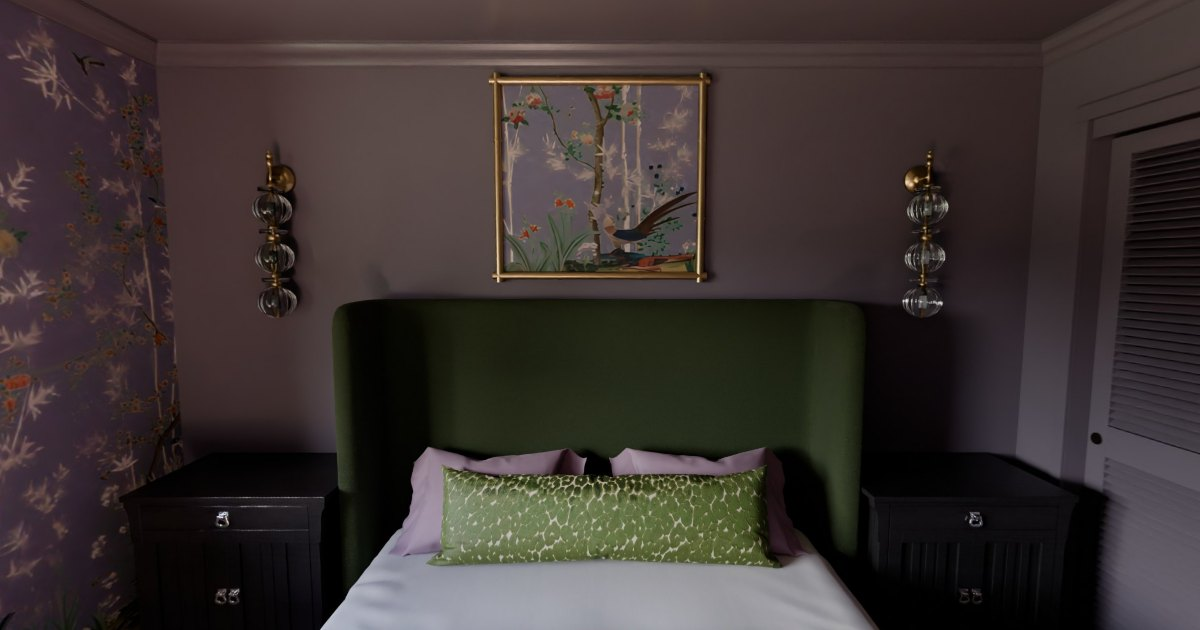
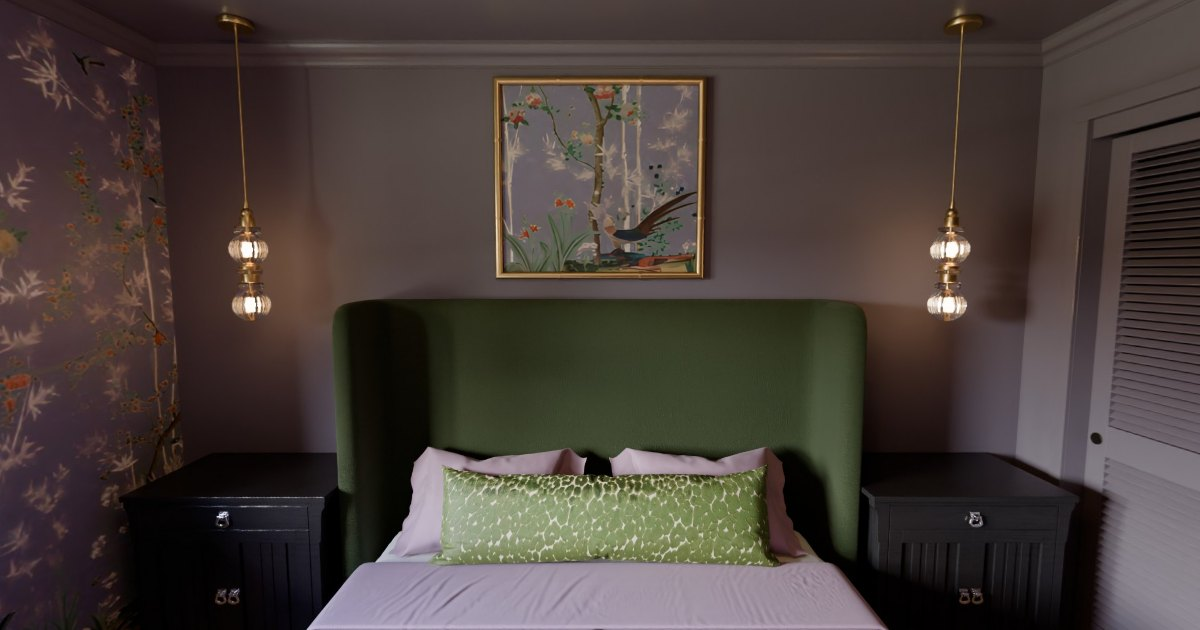
Bedroom tour: day and night 360s, new photo gallery
- New 6000x3000 day and night panoramas (pendants, new bed, floor and styling)
- Lighting switch (Day / Night); the gallery shows the matching set
- Gallery replaced with the 9-camera day and night renders (depth of field)
- Camera icons on each photo's subject in the 360; refreshed link preview

Claude-Session: https://claude.ai/code/session_01Gd4aLpzejxWqH616XGX1w3

diff --git a/christina-jones-bedroom/tour.js b/christina-jones-bedroom/tour.js
@@ -1,1 +1,1 @@
-window.TOUR = {"project": "Christina Jones \u00b7 Bedroom", "default_node": "bedroom", "default_floor": "carpet", "default_doors": "closed", "floors": {"carpet": "Wall-to-wall carpet"}, "doors": {"closed": "Closed"}, "client": {"name": "Maureen Stevens Design", "url": "https://www.maureenstevens.com/"}, "times": ["day"], "nodes": [{"id": "bedroom", "label": "The Bedroom", "view": {"yaw": 0, "pitch": -6, "hfov": 104}, "views": [{"id": "bed", "label": "Bed", "short": "Bed", "yaw": 0, "pitch": -8, "hfov": 100}, {"id": "window", "label": "Window seat", "short": "Window", "yaw": -87, "pitch": -6, "hfov": 96}, {"id": "closet", "label": "Closet & door", "short": "Closet", "yaw": 82, "pitch": -6, "hfov": 100}, {"id": "dresser", "label": "Dresser", "short": "Dresser", "yaw": 180, "pitch": -24, "hfov": 105}], "links": [], "appliances": [], "panos": {"floor-carpet__doors-closed": {"full": "pano_bedroom_day.jpg", "mobile": "pano_bedroom_day_m.jpg"}}, "photos": [{"still": "Still_01_BedWall", "label": "The Bedroom", "yaw": 0, "pitch": -36}, {"still": "Still_03_WindowSeat", "label": "Window Seat", "yaw": -88, "pitch": -19}, {"still": "Still_04_ClosetDoor", "label": "Closet & Door", "yaw": 58, "pitch": -2}, {"still": "Still_02_DresserWall", "label": "Dresser Wall", "yaw": 180, "pitch": -20}]}], "stills": [{"id": "Still_01_BedWall", "caption": "The Bedroom", "src": "still_Still_01_BedWall.jpg", "thumb": "thumb_Still_01_BedWall.jpg", "w": 1920, "h": 1280}, {"id": "Still_02_DresserWall", "caption": "Dresser Wall", "src": "still_Still_02_DresserWall.jpg", "thumb": "thumb_Still_02_DresserWall.jpg", "w": 1920, "h": 1280}, {"id": "Still_03_WindowSeat", "caption": "Window Seat", "src": "still_Still_03_WindowSeat.jpg", "thumb": "thumb_Still_03_WindowSeat.jpg", "w": 1920, "h": 1280}, {"id": "Still_04_ClosetDoor", "caption": "Closet & Door", "src": "still_Still_04_ClosetDoor.jpg", "thumb": "thumb_Still_04_ClosetDoor.jpg", "w": 1920, "h": 1280}]};
+window.TOUR = {"project": "Christina Jones \u00b7 Bedroom", "default_node": "bedroom", "default_floor": "main", "default_doors": "closed", "floors": {"main": "Hardwood with rug"}, "doors": {"closed": "Closed"}, "client": {"name": "Maureen Stevens Design", "url": "https://www.maureenstevens.com/"}, "times": ["day", "night"], "nodes": [{"id": "bedroom", "label": "The Bedroom", "view": {"yaw": 0, "pitch": -6, "hfov": 104}, "views": [{"id": "bed", "label": "Bed", "short": "Bed", "yaw": 0, "pitch": -8, "hfov": 100}, {"id": "window", "label": "Window seat", "short": "Window", "yaw": -87, "pitch": -6, "hfov": 96}, {"id": "closet", "label": "Closet & door", "short": "Closet", "yaw": 82, "pitch": -6, "hfov": 100}, {"id": "dresser", "label": "Dresser", "short": "Dresser", "yaw": 180, "pitch": -24, "hfov": 105}], "links": [], "appliances": [], "panos": {"floor-main__doors-closed": {"full": "pano_day.jpg", "mobile": "pano_day_m.jpg", "night": {"full": "pano_night.jpg", "mobile": "pano_night_m.jpg"}}}, "photos": [{"still": "CAM_01_BedWall", "yaw": 0, "pitch": -38, "label": "The Bedroom"}, {"still": "CAM_02_DresserWall", "yaw": -172, "pitch": 6, "label": "Dresser Wall"}, {"still": "CAM_03_WindowNook", "yaw": -92.6, "pitch": -20, "label": "Window Nook"}, {"still": "CAM_04_DoorCloset", "yaw": 60, "pitch": -2, "label": "Closet & Door"}, {"still": "Cam_05", "yaw": 33.7, "pitch": -10, "label": "Bedside Pendant"}, {"still": "Cam_06", "yaw": -78, "pitch": 0, "label": "Window Seat"}, {"still": "Cam_07", "yaw": -108.5, "pitch": -9, "label": "Window Seat Pillows"}, {"still": "Cam_08", "yaw": 171, "pitch": -21, "label": "Dresser Styling"}, {"still": "Cam_09", "yaw": 151.7, "pitch": -5, "label": "Thermostat"}]}], "stills": [{"id": "day_CAM_01_BedWall", "time": "day", "caption": "The Bedroom", "src": "still_day_CAM_01_BedWall.jpg", "thumb": "thumb_day_CAM_01_BedWall.jpg", "w": 1920, "h": 1280}, {"id": "day_CAM_02_DresserWall", "time": "day", "caption": "Dresser Wall", "src": "still_day_CAM_02_DresserWall.jpg", "thumb": "thumb_day_CAM_02_DresserWall.jpg", "w": 1920, "h": 1280}, {"id": "day_CAM_03_WindowNook", "time": "day", "caption": "Window Nook", "src": "still_day_CAM_03_WindowNook.jpg", "thumb": "thumb_day_CAM_03_WindowNook.jpg", "w": 1920, "h": 1280}, {"id": "day_CAM_04_DoorCloset", "time": "day", "caption": "Closet & Door", "src": "still_day_CAM_04_DoorCloset.jpg", "thumb": "thumb_day_CAM_04_DoorCloset.jpg", "w": 1920, "h": 1280}, {"id": "day_Cam_05", "time": "day", "caption": "Bedside Pendant", "src": "still_day_Cam_05.jpg", "thumb": "thumb_day_Cam_05.jpg", "w": 1920, "h": 1280}, {"id": "day_Cam_06", "time": "day", "caption": "Window Seat", "src": "still_day_Cam_06.jpg", "thumb": "thumb_day_Cam_06.jpg", "w": 1920, "h": 1280}, {"id": "day_Cam_07", "time": "day", "caption": "Window Seat Pillows", "src": "still_day_Cam_07.jpg", "thumb": "thumb_day_Cam_07.jpg", "w": 1920, "h": 1280}, {"id": "day_Cam_08", "time": "day", "caption": "Dresser Styling", "src": "still_day_Cam_08.jpg", "thumb": "thumb_day_Cam_08.jpg", "w": 1920, "h": 1280}, {"id": "day_Cam_09", "time": "day", "caption": "Thermostat", "src": "still_day_Cam_09.jpg", "thumb": "thumb_day_Cam_09.jpg", "w": 1920, "h": 1280}, {"id": "night_CAM_01_BedWall", "time": "night", "caption": "The Bedroom", "src": "still_night_CAM_01_BedWall.jpg", "thumb": "thumb_night_CAM_01_BedWall.jpg", "w": 1920, "h": 1280}, {"id": "night_CAM_02_DresserWall", "time": "night", "caption": "Dresser Wall", "src": "still_night_CAM_02_DresserWall.jpg", "thumb": "thumb_night_CAM_02_DresserWall.jpg", "w": 1920, "h": 1280}, {"id": "night_CAM_03_WindowNook", "time": "night", "caption": "Window Nook", "src": "still_night_CAM_03_WindowNook.jpg", "thumb": "thumb_night_CAM_03_WindowNook.jpg", "w": 1920, "h": 1280}, {"id": "night_CAM_04_DoorCloset", "time": "night", "caption": "Closet & Door", "src": "still_night_CAM_04_DoorCloset.jpg", "thumb": "thumb_night_CAM_04_DoorCloset.jpg", "w": 1920, "h": 1280}, {"id": "night_Cam_05", "time": "night", "caption": "Bedside Pendant", "src": "still_night_Cam_05.jpg", "thumb": "thumb_night_Cam_05.jpg", "w": 1920, "h": 1280}, {"id": "night_Cam_06", "time": "night", "caption": "Window Seat", "src": "still_night_Cam_06.jpg", "thumb": "thumb_night_Cam_06.jpg", "w": 1920, "h": 1280}, {"id": "night_Cam_07", "time": "night", "caption": "Window Seat Pillows", "src": "still_night_Cam_07.jpg", "thumb": "thumb_night_Cam_07.jpg", "w": 1920, "h": 1280}, {"id": "night_Cam_08", "time": "night", "caption": "Dresser Styling", "src": "still_night_Cam_08.jpg", "thumb": "thumb_night_Cam_08.jpg", "w": 1920, "h": 1280}, {"id": "night_Cam_09", "time": "night", "caption": "Thermostat", "src": "still_night_Cam_09.jpg", "thumb": "thumb_night_Cam_09.jpg", "w": 1920, "h": 1280}]};

diff --git a/christina-jones-bedroom/index.html b/christina-jones-bedroom/index.html
@@ -7,7 +7,7 @@
 <meta name="description" content="Interactive 360° bedroom presentation - Christina Jones · Maureen Stevens Design">
 <meta property="og:type" content="website">
 <meta property="og:title" content="Christina Jones · Bedroom 360°">
-<meta property="og:description" content="Look around the bedroom in 360° and browse the photographs.">
+<meta property="og:description" content="Look around the bedroom in 360°, day and night, and browse the photographs.">
 <meta property="og:image" content="https://ms3dstudio.github.io/3d-previews/christina-jones-bedroom/og.jpg">
 <meta property="og:image:width" content="1200">
 <meta property="og:image:height" content="630">
@@ -172,7 +172,7 @@
 </section>
 
 <div class="title ui"><h2>Christina Jones</h2><p>Bedroom · 360° tour</p></div>
-<div class="hint ui" id="hint">Drag to look around · camera icons show photos · use View below to face each wall</div>
+<div class="hint ui" id="hint">Drag to look around · camera icons show photos · use View below to face each wall · switch Day / Night below</div>
 <div class="loc-name" id="locname"></div>
 
 <div class="topbtns ui">
@@ -208,7 +208,7 @@
 </section>
 
 <script src="https://cdnjs.cloudflare.com/ajax/libs/pannellum/2.5.6/pannellum.js"></script>
-<script src="tour.js"></script>
+<script src="tour.js?v=2"></script>
 <script>
 (async function(){
   const $ = id => document.getElementById(id);
@@ -232,8 +232,9 @@
   const S = {node:T.default_node, floor:T.default_floor, doors:T.default_doors, time:'day', view:null};
   const TIMES = T.times || ['day'];
   const nodeById = Object.fromEntries(T.nodes.map(n=>[n.id,n]));
-  const stills = T.stills || [];
-  const stillIdx = Object.fromEntries(stills.map((s,i)=>[s.id,i]));
+  // the gallery shows the photos that match the current lighting (day / night)
+  const allStills = T.stills || [];
+  const stillsFor = t => { const l = allStills.filter(s => (s.time||'day') === t); return l.length ? l : allStills; };
   const sid = (n,f,d,t)=>`${n}|${f}|${d}|${t}`;
   const url = (n,f,d,t)=>{let p=nodeById[n].panos[`floor-${f}__doors-${d}`]; if(p && t==='night') p=p.night; return p ? (useMobile ? p.mobile : p.full) : null;};
 
@@ -250,9 +251,14 @@
     for (const a of n.appliances) hs.push({pitch:a.pitch, yaw:a.yaw, type:'custom', createTooltipFunc:tip,
         createTooltipArgs:{cls:'hs-app', label:(d==='closed'?'Open ':'Close ')+a.label},
         clickHandlerFunc:()=>setDoors(S.doors==='closed'?'all_open':'closed')});
-    for (const p of (n.photos||[])) if (p.still in stillIdx) hs.push({pitch:p.pitch, yaw:p.yaw, type:'custom', createTooltipFunc:tip,
-        createTooltipArgs:{cls:'hs-cam', icon:ICON_CAM, label:'Photo · '+stills[stillIdx[p.still]].caption},
-        clickHandlerFunc:()=>openGallery(stillIdx[p.still])});
+    const tStills = stillsFor(t);
+    for (const p of (n.photos||[])) {
+      const k = tStills.findIndex(s => s.id === p.still || s.id === `${t}_${p.still}`);
+      if (k < 0) continue;
+      hs.push({pitch:p.pitch, yaw:p.yaw, type:'custom', createTooltipFunc:tip,
+        createTooltipArgs:{cls:'hs-cam', icon:ICON_CAM, label:'Photo · '+tStills[k].caption},
+        clickHandlerFunc:()=>openGallery(k)});
+    }
     scenes[sid(n.id,f,d,t)] = {type:'equirectangular', panorama:u, hfov:fitH(n.view.hfov||100),
                              yaw:n.view.yaw||0, pitch:n.view.pitch||0, hotSpots:hs};
   }
@@ -334,23 +340,31 @@
   $('btnFull').onclick = ()=>{ document.fullscreenElement ? document.exitFullscreen() : document.documentElement.requestFullscreen?.(); };
 
   // ---------- gallery ----------
-  let gi=0;
+  let gi=0, G=stillsFor(S.time);
   const gal=$('gal'), img=$('galImg'), thumbs=$('galThumbs');
-  stills.forEach((s,i)=>{ const b=document.createElement('button'); b.type='button'; b.setAttribute('aria-label',s.caption);
-    b.innerHTML=`<img src="${s.thumb}" alt="" loading="lazy">`; b.onclick=()=>show(i); thumbs.appendChild(b); });
-  if(!stills.length) $('btnGallery').style.display='none';
+  function buildThumbs(){
+    thumbs.innerHTML='';
+    G.forEach((s,i)=>{ const b=document.createElement('button'); b.type='button'; b.setAttribute('aria-label',s.caption);
+      b.innerHTML=`<img src="${s.thumb}" alt="" loading="lazy">`; b.onclick=()=>show(i); thumbs.appendChild(b); });
+  }
+  if(!allStills.length) $('btnGallery').style.display='none';
   function show(i){
-    gi=(i+stills.length)%stills.length; const s=stills[gi];
+    gi=(i+G.length)%G.length; const s=G[gi];
     img.classList.remove('in');
     const pre=new Image();
     pre.onload=()=>{ img.src=s.src; img.alt=s.caption; requestAnimationFrame(()=>requestAnimationFrame(()=>img.classList.add('in'))); };
     pre.src=s.src;
-    $('galCap').innerHTML=`${s.caption}<small>${String(gi+1).padStart(2,'0')} / ${String(stills.length).padStart(2,'0')}</small>`;
+    $('galCap').innerHTML=`${s.caption}<small>${String(gi+1).padStart(2,'0')} / ${String(G.length).padStart(2,'0')}</small>`;
     [...thumbs.children].forEach((b,k)=>b.classList.toggle('on',k===gi));
     thumbs.children[gi]?.scrollIntoView({behavior:'smooth',inline:'center',block:'nearest'});
-    const nx=new Image(); nx.src=stills[(gi+1)%stills.length].src;
+    const nx=new Image(); nx.src=G[(gi+1)%G.length].src;
   }
-  function openGallery(i=0){ gal.classList.add('open'); gal.setAttribute('aria-hidden','false'); $('galCount').textContent=stills.length+' images'; show(i); }
+  function openGallery(i=0){
+    G=stillsFor(S.time); buildThumbs();
+    gal.classList.add('open'); gal.setAttribute('aria-hidden','false');
+    $('galCount').textContent = G.length+' images' + (TIMES.length>1 ? ' · '+(S.time==='night'?'Night':'Day') : '');
+    show(i);
+  }
   function closeGallery(){ gal.classList.remove('open'); gal.setAttribute('aria-hidden','true'); }
   $('btnGallery').onclick=()=>openGallery(0);
   $('galClose').onclick=closeGallery; $('galPrev').onclick=()=>show(gi-1); $('galNext').onclick=()=>show(gi+1);

diff --git a/christina-jones-bedroom/README.md b/christina-jones-bedroom/README.md
@@ -1,6 +1,6 @@
 # Christina Jones · Bedroom - 360° tour
 
-Interactive 360° bedroom tour with a photo gallery (Maureen Stevens Design · visualisation MS3DSTUDIO).
+Interactive 360° bedroom tour, day and night, with a photo gallery (Maureen Stevens Design · visualisation MS3DSTUDIO).
 
 Live: https://ms3dstudio.github.io/3d-previews/christina-jones-bedroom/
 
@@ -8,9 +8,10 @@ Live: https://ms3dstudio.github.io/3d-previews/christina-jones-bedroom/
 |---|---|
 | `index.html` | Viewer page (Pannellum 2.5.6), same UI as the 629 Burdette tour |
 | `tour.js` / `tour.json` | Tour data: views, photo hotspots, gallery captions |
-| `pano_bedroom_day.jpg` | 6000×3000 equirectangular daylight panorama |
-| `pano_bedroom_day_m.jpg` | 4096×2048 copy for phones and low-memory GPUs |
-| `still_*.jpg` / `thumb_*.jpg` | Gallery photos and thumbnails |
+| `pano_day.jpg` / `pano_night.jpg` | 6000×3000 equirectangular panoramas |
+| `pano_day_m.jpg` / `pano_night_m.jpg` | 4096×2048 copies for phones and low-memory GPUs |
+| `still_{day,night}_*.jpg` / `thumb_*` | Gallery photos (9 cameras × day and night) and thumbnails |
 | `logo.webp` | Maureen Stevens Design logo (links to maureenstevens.com) |
 
-To replace the panorama with a colour-graded version, overwrite both `pano_bedroom_day*.jpg` files with the same names.
+The Lighting switch (Day / Night) swaps the panorama, and the Photos gallery shows the matching set.
+To replace a panorama with a colour-graded version, overwrite both of its files with the same names.
